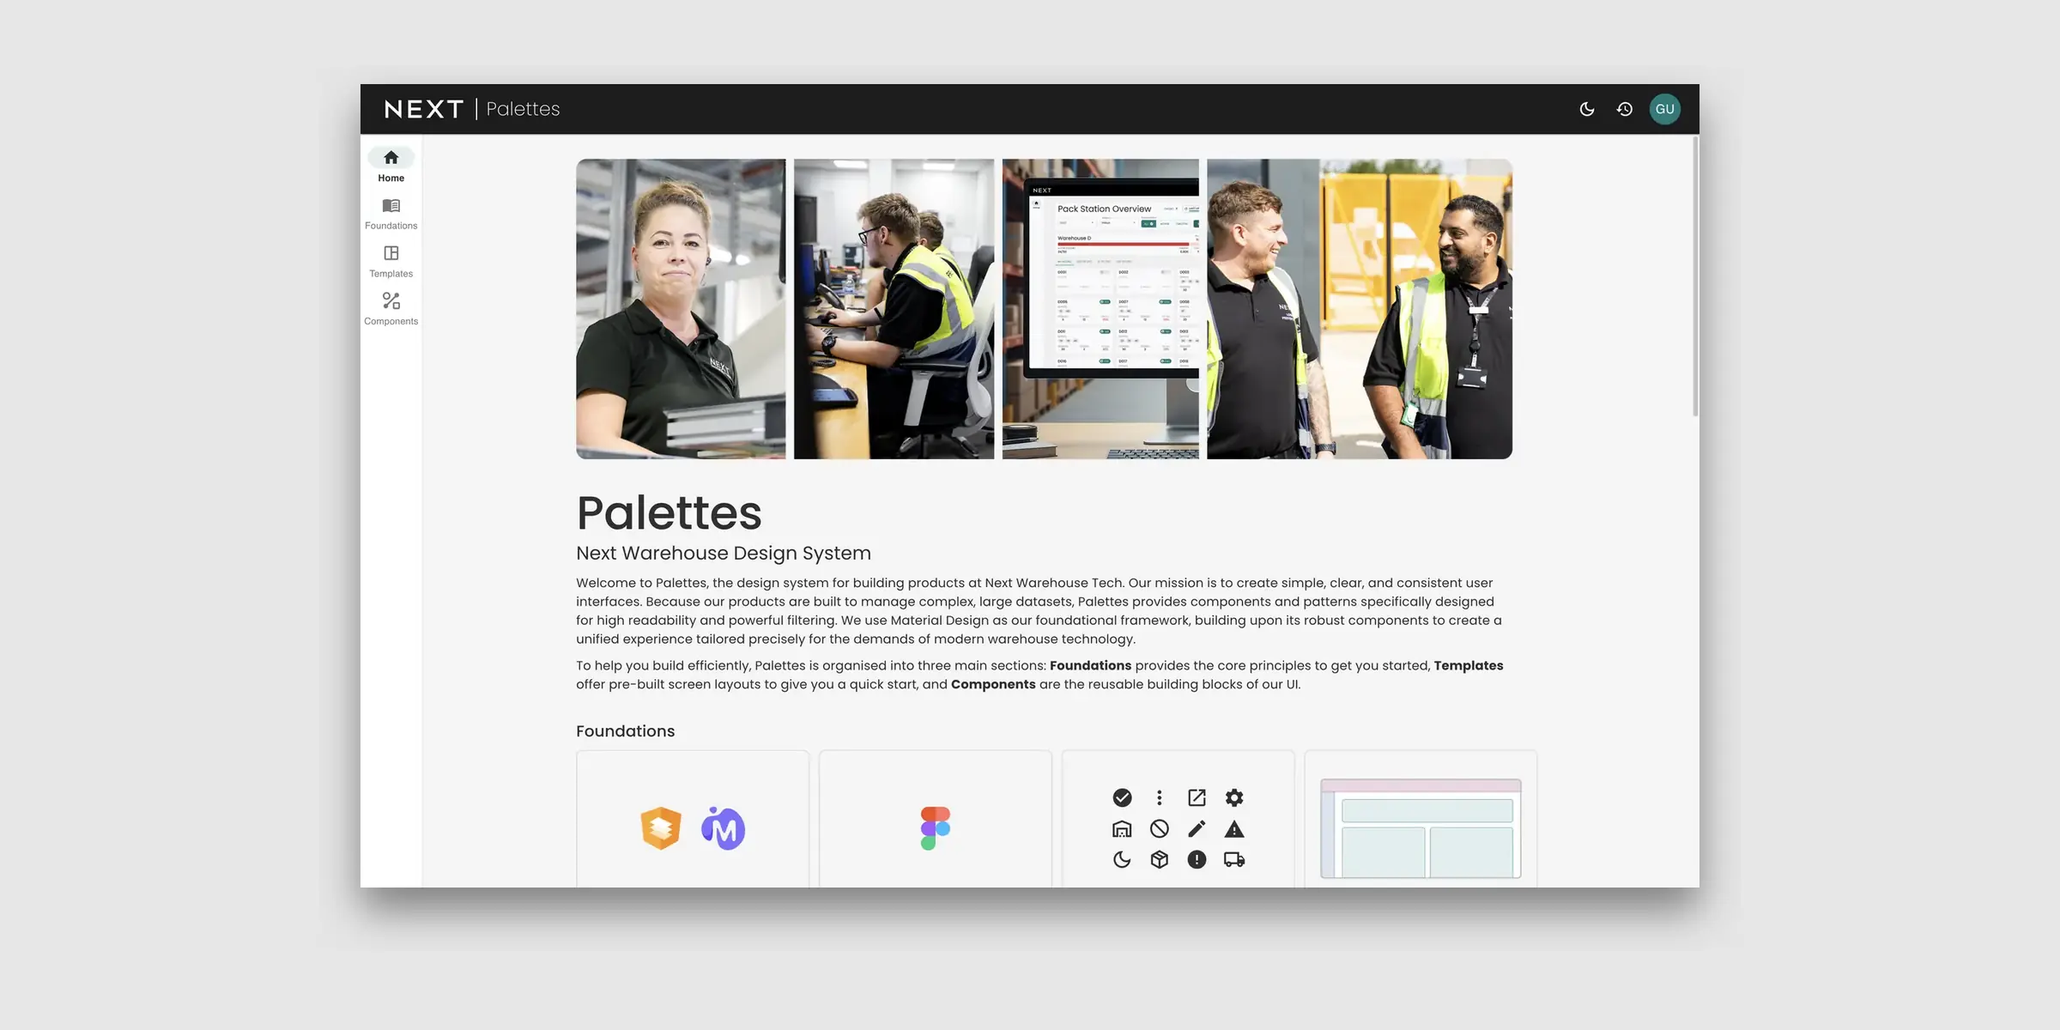
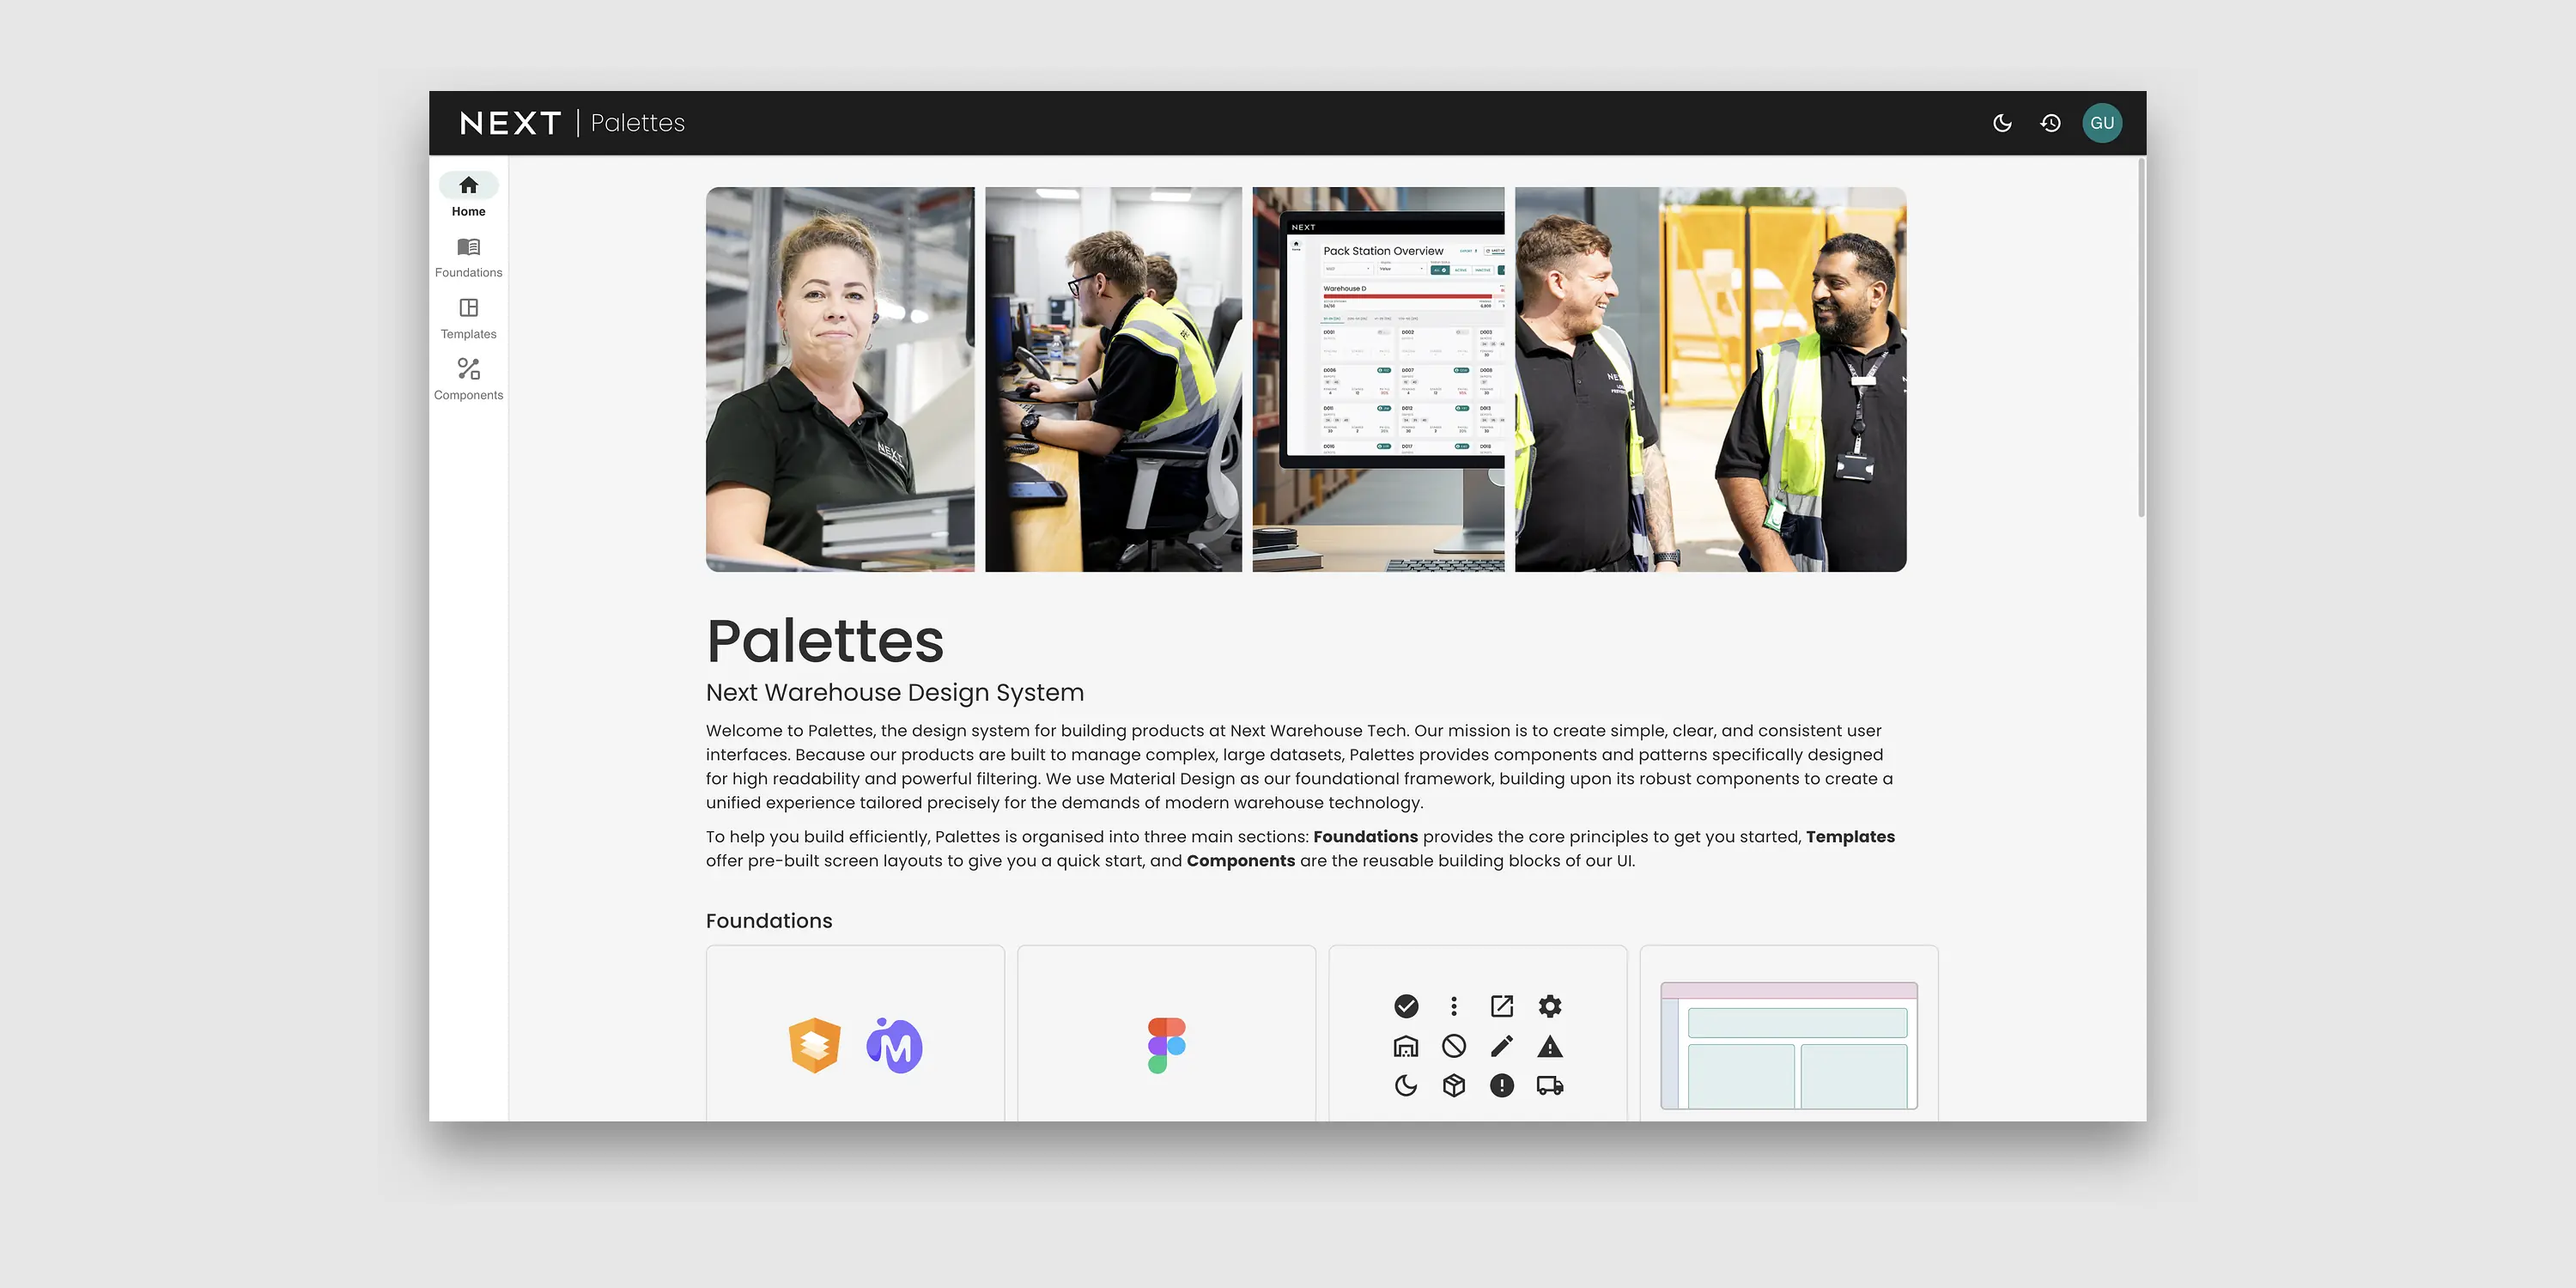
Design system: rebuild Palettes cover and card from original screenshot at higher resolution and quality
Claude-Session: https://claude.ai/code/session_01Rgaxtm83BsambxhU9VTWpF

diff --git a/index.html b/index.html
@@ -444,7 +444,7 @@
       <div class="content-wrap">
         <a href="design-system.html" class="cs-card">
           <div class="cs-img-wrap"><div class="cs-img">
-            <img width="2400" height="1200" loading="lazy" decoding="async" style="object-position: center;" src="images/palettes-card.webp" alt="Palettes, the Next Warehouse design system site, shown as a screenshot on a grey background">
+            <img width="3000" height="1500" loading="lazy" decoding="async" style="object-position: center;" src="images/palettes-card.webp" alt="Palettes, the Next Warehouse design system site, shown as a screenshot on a grey background">
           </div></div>
           <div class="cs-info">
             <div class="cs-head">

diff --git a/design-system.html b/design-system.html
@@ -354,7 +354,7 @@
 
   <div class="content-wrap cs-hero-wrap" data-observe>
     <div class="cs-hero-img">
-      <img width="2400" height="1500" fetchpriority="high" decoding="async" style="object-position: center;" src="images/palettes-cover.webp" alt="Palettes, the Next Warehouse design system site, shown as a screenshot on a grey background">
+      <img width="3000" height="1875" fetchpriority="high" decoding="async" style="object-position: center;" src="images/palettes-cover.webp" alt="Palettes, the Next Warehouse design system site, shown as a screenshot on a grey background">
     </div>
   </div>
 
